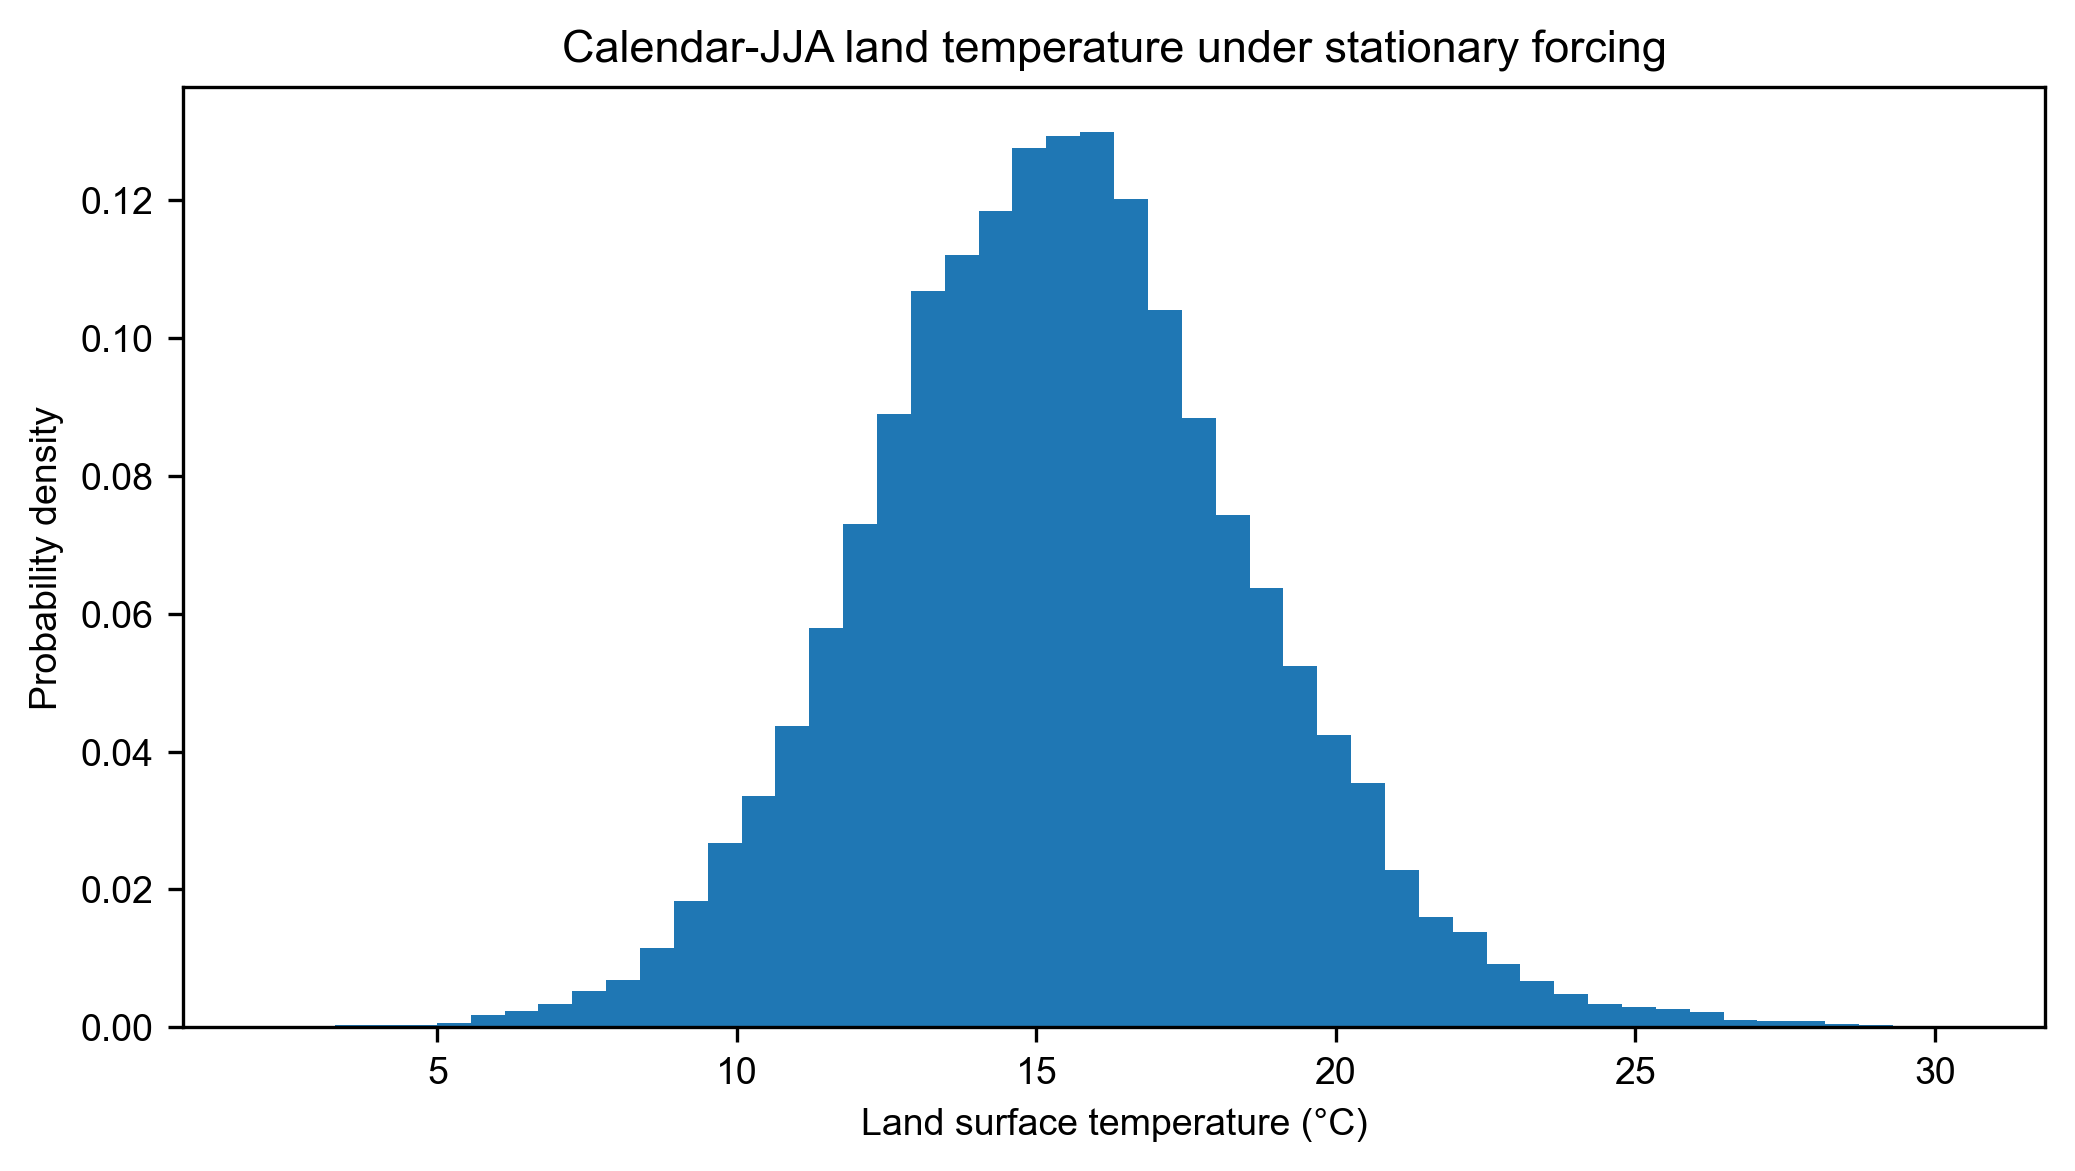
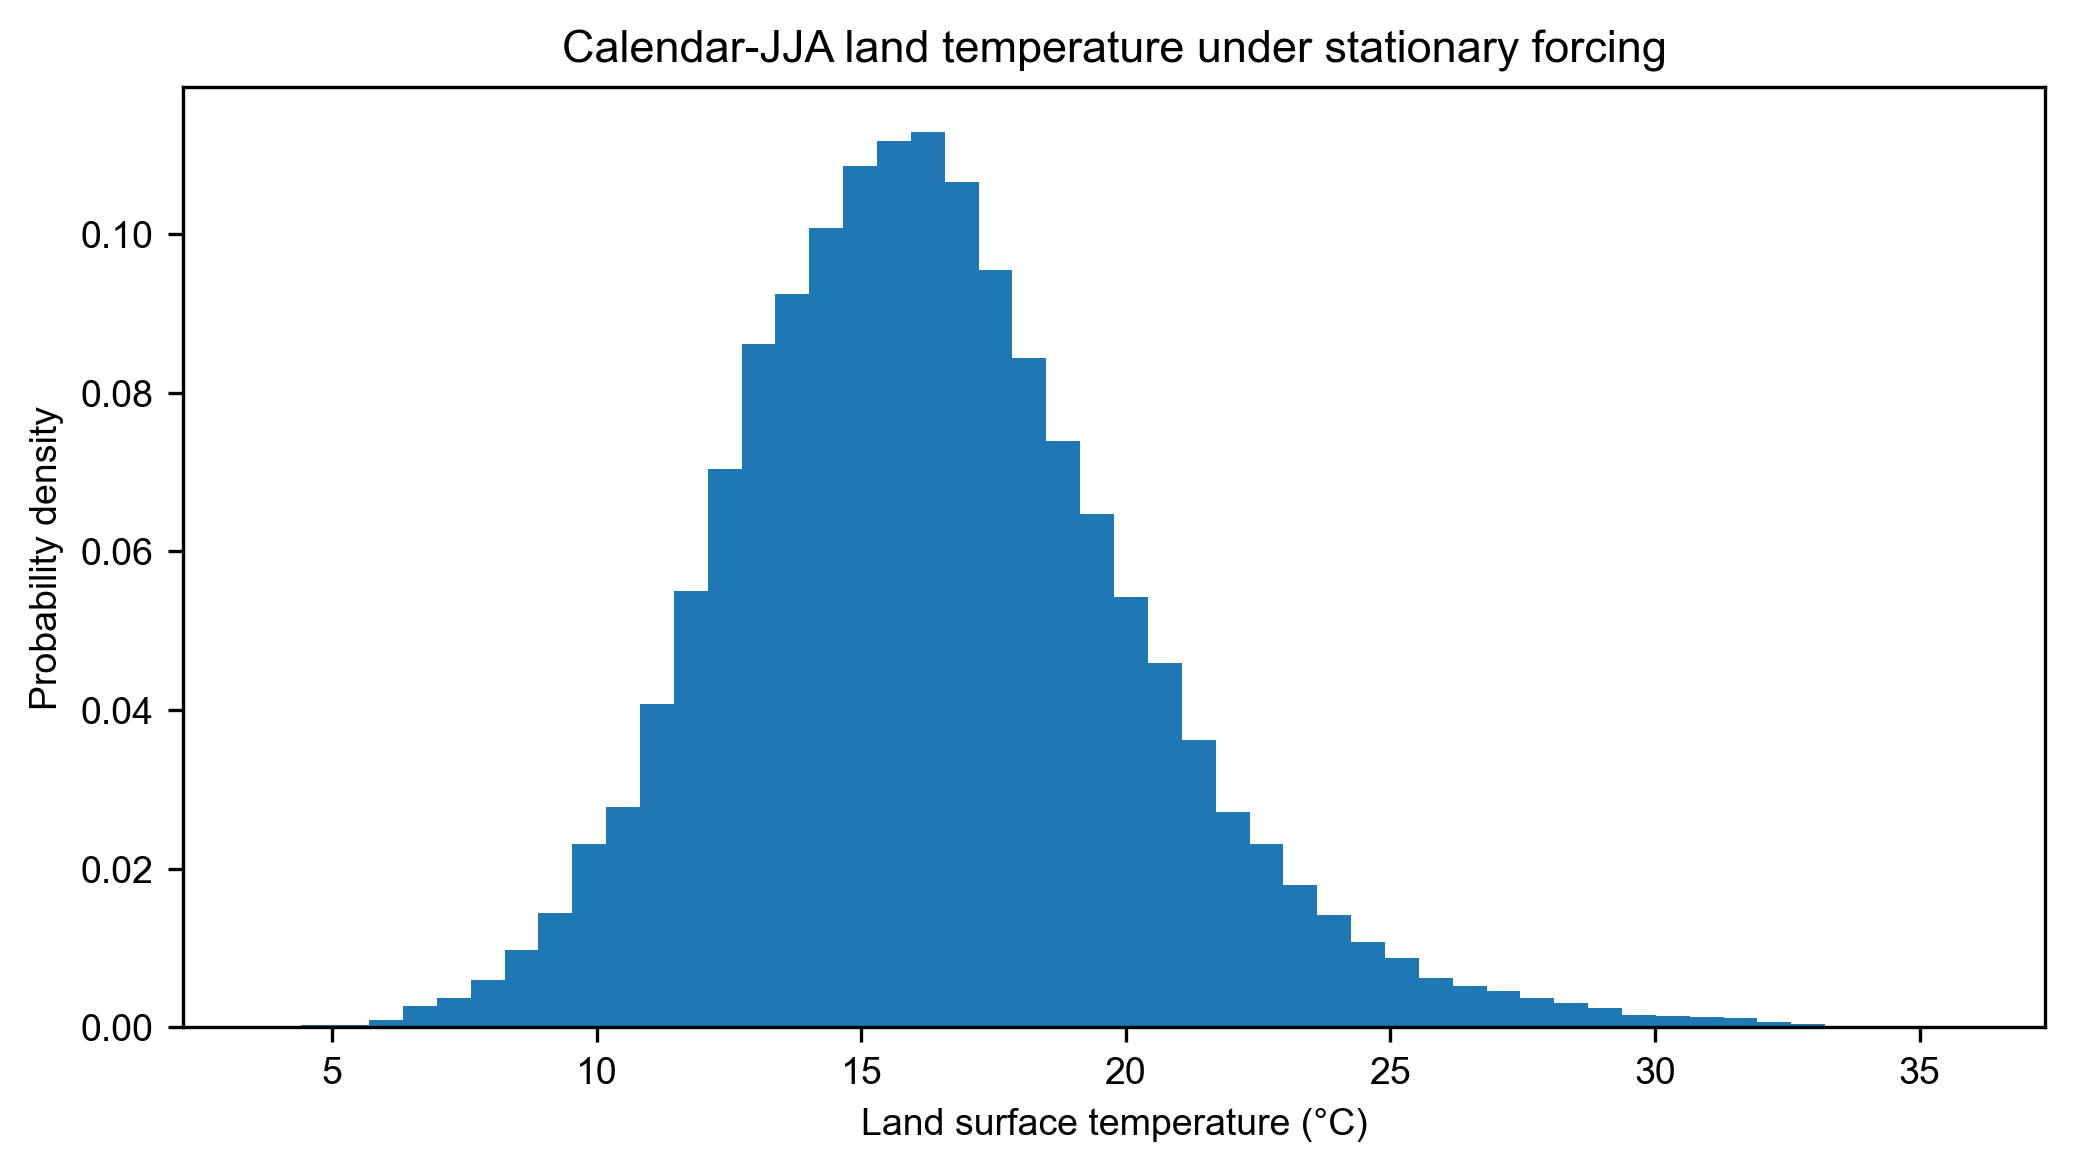
Update two-day model parameters and figures

diff --git a/climatekid/land_ocean_box_model.py b/climatekid/land_ocean_box_model.py
@@ -98,15 +98,15 @@ r_SS = 1000.0
 # LAND-OCEAN MIXING
 # ============================================================
 
-tau_mix = 1.0 * day
+tau_mix = 2.0 * day
 
 # ============================================================
 # FREE-TROPOSPHERIC ENTRAINMENT
 # ============================================================
 
-tau_ent_L = 5.0 * day
+tau_ent_L = 2.0 * day
 
-tau_ent_o = 5.0 * day
+tau_ent_o = 2.0 * day
 
 We_L = 1.0 / tau_ent_L
 
@@ -116,7 +116,7 @@ We_o = 1.0 / tau_ent_o
 # FIXED OCEAN SST
 # ============================================================
 
-To = 288.0
+To = 290.0
 
 dTo_dt = 0.0
 

diff --git a/README.md b/README.md
@@ -217,11 +217,11 @@ so the mean event depth is $8\ \mathrm{mm}$.
 
 ## Reference numerical experiment
 
-The committed reference experiment integrates 100 years with an hourly timestep, removes the first 10 years as spin-up, fixes $T_o=288\ \mathrm{K}$, and uses a 1-day land--ocean mixing timescale. Radiative forcing uses random seed 123 and precipitation uses seed 42. For model days 151--242 after spin-up, the run gives
+The committed reference experiment integrates 100 years with an hourly timestep, removes the first 10 years as spin-up, fixes $T_o=290\ \mathrm{K}$, and uses 2-day land--ocean mixing and 2-day free-tropospheric entrainment timescales for both atmospheric boxes. Radiative forcing uses random seed 123 and precipitation uses seed 42. For model days 151--242 after spin-up, the run gives
 
-- mean land surface temperature: $288.584\ \mathrm{K}$;
-- standard deviation: $3.242\ \mathrm{K}$;
-- population skewness: $0.225$.
+- mean land surface temperature: $289.520\ \mathrm{K}$;
+- standard deviation: $3.864\ \mathrm{K}$;
+- population skewness: $0.545$.
 
 Because the forcing is stationary and has no annual cycle, this fixed calendar-JJA window is only a consistent subsample of the stationary integration; it is not a physically distinct simulated summer season. These values and figures are deterministic outputs of the current code and parameter set, not observational validation.
 

diff --git a/climatekid/README.md b/climatekid/README.md
@@ -215,11 +215,11 @@ so the mean event depth is $8\ \mathrm{mm}$.
 
 ## Reference numerical experiment
 
-The committed reference experiment integrates 100 years with an hourly timestep, removes the first 10 years as spin-up, fixes $T_o=288\ \mathrm{K}$, and uses a 1-day land--ocean mixing timescale. Radiative forcing uses random seed 123 and precipitation uses seed 42. For model days 151--242 after spin-up, the run gives
+The committed reference experiment integrates 100 years with an hourly timestep, removes the first 10 years as spin-up, fixes $T_o=290\ \mathrm{K}$, and uses 2-day land--ocean mixing and 2-day free-tropospheric entrainment timescales for both atmospheric boxes. Radiative forcing uses random seed 123 and precipitation uses seed 42. For model days 151--242 after spin-up, the run gives
 
-- mean land surface temperature: $288.584\ \mathrm{K}$;
-- standard deviation: $3.242\ \mathrm{K}$;
-- population skewness: $0.225$.
+- mean land surface temperature: $289.520\ \mathrm{K}$;
+- standard deviation: $3.864\ \mathrm{K}$;
+- population skewness: $0.545$.
 
 Because the forcing is stationary and has no annual cycle, this fixed calendar-JJA window is only a consistent subsample of the stationary integration; it is not a physically distinct simulated summer season. These values and figures are deterministic outputs of the current code and parameter set, not observational validation.
 
